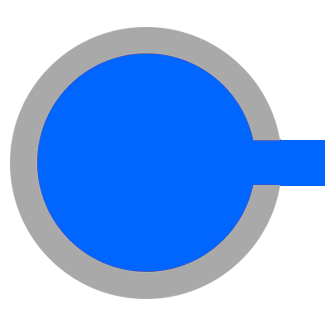
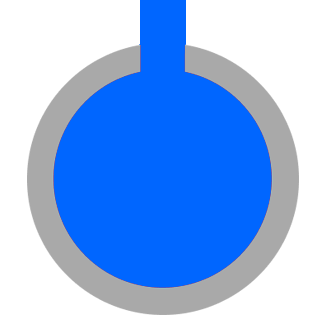
createBoardAce

diff --git a/src/logic/base/StartingBoard.java b/src/logic/base/StartingBoard.java
@@ -3,10 +3,24 @@ package logic.base;
 import logic.*;
 
 public class StartingBoard {
-	private static final ChessPiece[][][] startingBoard = {
-			{{new LaserTower(2,0,0,1), null, null, null, new Defender()
-		
-	}}};
+	
+	public static final ChessPiece[][][] startingBoard = 
+		{ 
+				{{new LaserTower(2,0,0,1), null, null, null, new Defender(2,0,4,1),new King(2,0,5,1),new Defender(2, 0, 6, 1),new Deflector(1, 0, 7, 1),null,null},
+				{null,null,new Deflector(2,1,2,1),null,null,null,null,null,null,null},
+				{null,null,null,new Deflector(3,2,3,2),null,null,null,null,null,null},
+				{new Deflector(1,3,0,1),null,new Deflector(2,3,2,2),null,new Switch(0, 3, 4, 1),new Switch(1,3,5,1),null,new Deflector(1,3,7,1),null,new Deflector(3,3,9,2)},
+				{new Deflector(2,4,0,1),null,new Deflector(3,4,2,2),null,new Switch(1,4,4,2),new Switch(0,4,5,2),null,new Deflector(1,4,7,1),null,new Deflector(3,4,9,2)},
+				{null,null,null,null,null,null,new Deflector(1,5,6,1),null,null,null},
+				{null,null,null,null,null,null,null,new Deflector(1,6,6,2),null,null},
+				{null,null,new Deflector(3,7,2,2),new Defender(0, 7, 3, 2),new King(0,7,4,2),new Defender(0,7,5,2),null,null,null,new LaserTower(0, 7, 9, 2)}
+				},
+				{},
+				{},
+				{},
+				{}
+		};
+	
 	public static ChessPiece[][] getStartingBoard(int boardNumber){
 		return startingBoard[boardNumber];
 	}

diff --git a/src/gui/BoardCell.java b/src/gui/BoardCell.java
@@ -16,18 +16,22 @@ public class BoardCell extends Pane{
 	private ChessPiece chessPiece;
 	private int x;
 	private int y;
-	//private Crop;
+	public BoardCell(int x,int y) {
+		setPane(x,y);
+	}
 	public BoardCell(ChessPiece chessPiece,int x,int y) {
 		this.chessPiece = chessPiece;
+		setPane(x,y);
+		updatePic();
+	}
+	private void setPane(int x,int y) {
 		this.x = x;
 		this.y = y;
 		this.setPrefWidth(90);
 		this.setPrefHeight(90);
 		this.setPadding(new Insets(5,5,5,5));
 		this.setBackground(new Background(new BackgroundFill(Color.GRAY, CornerRadii.EMPTY, Insets.EMPTY)));
-		updatePic();
 	}
-	
 	public void updateChessPiece() {
 		this.chessPiece = GameManager.getChessPiece(x, y);
 	}
@@ -35,7 +39,7 @@ public class BoardCell extends Pane{
 	public void updatePic() {
 		Image image = new Image(chessPiece.getUrl());
 		ImageView imageView = new  ImageView(image);
-		imageView.setRotate(90*chessPiece.getDirection());
+		imageView.setRotate(imageView.getRotate() + 90*chessPiece.getDirection());
 		image = imageView.getImage();
 		BackgroundFill bgFill = new BackgroundFill(Color.GRAY, CornerRadii.EMPTY, Insets.EMPTY);
 		BackgroundFill[] bgFillA = {bgFill};

diff --git a/src/gui/PicInformation.java b/src/gui/PicInformation.java
@@ -3,16 +3,16 @@ package gui;
 public class PicInformation {
 	public static String ChessUrl(String ChessName) {
 		switch(ChessName) {
-			case "red_laser_tower": 	return "/red_lase_tower.png";	
+			case "red_laser_tower": 	return "/red_laser_tower.png";	
 			case "red_defender": 		return "/red_defender.png";		
-			case "read_deflectors": 	return "/red_deflectors.png";	
+			case "red_deflector": 	return "/red_deflector.png";	
 			case "red_king":			return "/red_king.png";			
-			case "red_switch":			return "/red_switch";			
+			case "red_switch":			return "/red_switch.png";			
 			case "blue_laser_tower": 	return "/blue_laser_tower.png";	
 			case "blue_defender": 		return "/blue_defender.png";	
-			case "blue_deflectors": 	return "/blue_deflectors.png";	
+			case "blue_deflector": 	return "/blue_deflector.png";	
 			case "blue_king":			return "/blue_king.png";		
-			case "blue_switch":			return "/blue_switch";			
+			case "blue_switch":			return "/blue_switch.png";			
 		}
 		return null;
 	}

diff --git a/src/gui/BoardPane.java b/src/gui/BoardPane.java
@@ -1,9 +1,8 @@
 package gui;
 
-import java.util.ArrayList;
 
 import javafx.scene.layout.GridPane;
-import logic.ChessPiece;
+import logic.base.StartingBoard;
 
 public class BoardPane extends GridPane{
 	
@@ -11,9 +10,18 @@ public class BoardPane extends GridPane{
 	public BoardPane() {
 		this.setPrefWidth(1000);
 		this.setPrefHeight(800);
+		this.setVgap(5);
+		this.setHgap(5);
 		for(int i = 0;i < 8;i++) {
 			for(int j = 0;j < 10;j++) {
-				BoardCell boardcell = new BoardCell(null,i,j);
+				if(StartingBoard.startingBoard[0][i][j]!=null) {
+					BoardCell boardcell = new BoardCell(StartingBoard.startingBoard[0][i][j],i,j);
+					this.add(boardcell, j, i);
+				}
+				else {
+					BoardCell boardcell = new BoardCell(i,j);
+					this.add(boardcell, j, i);
+				}
 			}
 		}
 	}

diff --git a/src/gui/CreateBoardPicker.java b/src/gui/CreateBoardPicker.java
@@ -38,7 +38,6 @@ public class CreateBoardPicker extends VBox{
 					}
 					BoardToPick.setIsBoardChoosen(true);
 					ChoosenBoard = BoardToPick.getBoardpic();
-					System.out.println(ChoosenBoard);
 				}
 				
 			});
@@ -55,11 +54,11 @@ public class CreateBoardPicker extends VBox{
 		Button Next = new Button();
 		this.getChildren().add(Next);
 		Next.setOnMouseClicked(new EventHandler<MouseEvent>() {
-
 			@Override
 			public void handle(MouseEvent arg0) {
 				GameManager.startGame(ChoosenBoard.ordinal());
 				BoardPane SelectedBoard = new BoardPane();
+				//System.out.println(SelectedBoard);
 				Scene BoardScene = new Scene(SelectedBoard,ViewManager.getWidth(),ViewManager.getHeight());
 				ViewManager.getMainStage().setScene(BoardScene);
 				

diff --git a/src/logic/Deflector.java b/src/logic/Deflector.java
@@ -7,8 +7,8 @@ public class Deflector extends ChessPiece implements Rotatable {
 	
 	public Deflector(int direction, int x, int y, int team) {
 		super(direction, x, y, team);
-		if(team == 1) this.name = "red_deflectors";
-		else this.name = "blue_deflectors";
+		if(team == 1) this.name = "red_deflector";
+		else this.name = "blue_deflector";
 		this.url = PicInformation.ChessUrl(name);
 	}
 	
